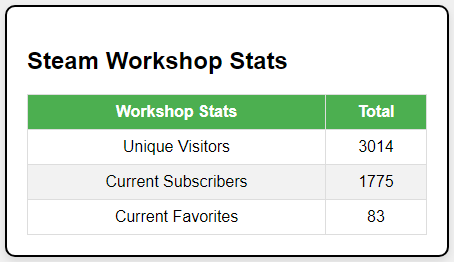
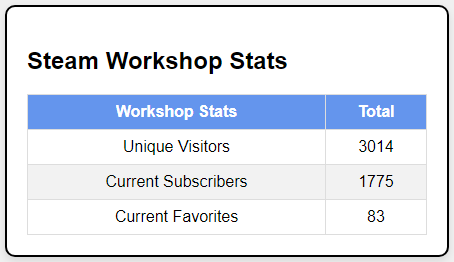
Update Card

Changed region(s): [[0.0617, 0.3359, 0.9559, 0.5191]]

diff --git a/assets/steam_summary.html b/assets/steam_summary.html
@@ -37,7 +37,7 @@
         <div class="content">
             <img id="avatar" class="avatar" src="https://avatars.steamstatic.com/0718d631353dd49100dde0be17dd7e88e984478f_full.jpg" alt="Avatar">
             <h2 id="name">Name: Nicco</h2>
-            <p id="status">Status: Offline</p>
+            <p id="status">Status: Online</p>
             <p id="country">Country: <span id="country-code">IN</span>
                 <img id="flag" class="flag"
                 src="https://flagcdn.com/w320/in.png" alt="Flag">

diff --git a/assets/steam_workshop_stats.html b/assets/steam_workshop_stats.html
@@ -35,7 +35,7 @@
             text-align: center;
         }
         th {
-            background-color: #4CAF50;
+            background-color: #6495ED;
             color: white;
         }
         tr:nth-child(even) {

diff --git a/api/card.py b/api/card.py
@@ -3,26 +3,23 @@ import datetime
 import math
 import os
 import asyncio
-import time
+import tempfile
 import zipfile
 from pyppeteer import launch
 import requests
-from steam_stats import get_player_summaries, get_recently_played_games
-from steam_workshop import fetch_workshop_item_links, fetch_all_workshop_stats
-from dotenv import load_dotenv
 
-load_dotenv()
-
-# Secrets Configuration
-STEAM_API_KEY = os.getenv("STEAM_API_KEY")
-STEAM_ID = os.getenv("STEAM_ID")
-STEAM_CUSTOM_ID = os.getenv("STEAM_CUSTOM_ID")
 REQUEST_TIMEOUT = (10, 15)
 
-CHROMIUM_ZIP_URL = "https://commondatastorage.googleapis.com/chromium-browser-snapshots/Win_x64/1309077/chrome-win.zip"
-CHROMIUM_DIR = os.path.join(os.getcwd(), 'chromium')
-CHROMIUM_EXECUTABLE = os.path.join(CHROMIUM_DIR, 'chrome-win', 'chrome.exe')
+CHROMIUM_ZIP_URL = (
+    "https://commondatastorage.googleapis.com/chromium-browser-snapshots/Win_x64/1309077/"
+    "chrome-win.zip"
+)
+CHROMIUM_DIR = os.path.join(os.getcwd(), "chromium")
+CHROMIUM_EXECUTABLE = os.path.join(CHROMIUM_DIR, "chrome-win", "chrome.exe")
 MARGIN = 5
+
+# Set the PYPPETEER_HOME environment variable to a directory with appropriate permissions
+os.environ["PYPPETEER_HOME"] = os.path.join(os.getcwd(), "pyppeteer_home")
 
 
 def download_and_extract_chromium():
@@ -43,11 +40,15 @@ def download_and_extract_chromium():
         with zipfile.ZipFile(zip_path, 'r') as zip_ref:
             zip_ref.extractall(CHROMIUM_DIR)
         print("Chromium extracted successfully.")
+    # Ensure the Chromium executable has the correct permissions
+    os.chmod(CHROMIUM_EXECUTABLE, 0o755)
 
 
 async def get_element_bounding_box(html_file, selector):
     """Get the bounding box of the specified element using pyppeteer"""
-    browser = await launch(headless=True, executablePath=CHROMIUM_EXECUTABLE)
+    user_data_dir = tempfile.mkdtemp()
+    browser = await launch(headless=True, executablePath=CHROMIUM_EXECUTABLE, args=['--no-sandbox'],
+                           userDataDir=user_data_dir)
     page = await browser.newPage()
     await page.goto(f'file://{os.path.abspath(html_file)}')
     bounding_box = await page.evaluate(f'''() => {{
@@ -55,19 +56,22 @@ async def get_element_bounding_box(html_file, selector):
         var rect = element.getBoundingClientRect();
         return {{x: rect.x, y: rect.y, width: rect.width, height: rect.height}};
     }}''')
+    await page.close()
     await browser.close()
     # Add margin to the bounding box
-    bounding_box['x'] = max(bounding_box['x'] - MARGIN, 0)
-    bounding_box['y'] = max(bounding_box['y'] - MARGIN, 0)
-    bounding_box['width'] += 2 * MARGIN
-    bounding_box['height'] += 2 * MARGIN
+    bounding_box["x"] = max(bounding_box["x"] - MARGIN, 0)
+    bounding_box["y"] = max(bounding_box["y"] - MARGIN, 0)
+    bounding_box["width"] += 2 * MARGIN
+    bounding_box["height"] += 2 * MARGIN
     return bounding_box
 
 
 async def html_to_png(html_file, output_file, selector):
     """Convert HTML file to PNG using pyppeteer with clipping"""
     bounding_box = await get_element_bounding_box(html_file, selector)
-    browser = await launch(headless=True, executablePath=CHROMIUM_EXECUTABLE)
+    user_data_dir = tempfile.mkdtemp()
+    browser = await launch(headless=True, executablePath=CHROMIUM_EXECUTABLE, args=['--no-sandbox'],
+                           userDataDir=user_data_dir)
     page = await browser.newPage()
     await page.goto(f'file://{os.path.abspath(html_file)}')
     await page.screenshot({
@@ -79,6 +83,7 @@ async def html_to_png(html_file, output_file, selector):
             'height': bounding_box['height']
         }
     })
+    await page.close()
     await browser.close()
 
 
@@ -176,11 +181,11 @@ def generate_card_for_player_summary(player_data):
 </body>
 </html>
     """
-    with open("assets/steam_summary.html", "w", encoding="utf-8") as file:
+    with open("../assets/steam_summary.html", "w", encoding="utf-8") as file:
         file.write(html_content)
 
-    convert_html_to_png("assets/steam_summary.html",
-                        "assets/steam_summary.png", ".card")
+    convert_html_to_png("../assets/steam_summary.html",
+                        "../assets/steam_summary.png", ".card")
 
     return (
         "![Steam Summary]"
@@ -239,11 +244,11 @@ def generate_card_for_played_games(games_data):
 </html>
     """
 
-    with open("assets/recently_played_games.html", "w", encoding="utf-8") as file:
+    with open("../assets/recently_played_games.html", "w", encoding="utf-8") as file:
         file.write(html_content)
 
-    convert_html_to_png("assets/recently_played_games.html",
-                        "assets/recently_played_games.png", ".card")
+    convert_html_to_png("../assets/recently_played_games.html",
+                        "../assets/recently_played_games.png", ".card")
 
     return (
         "![Steam Summary]"
@@ -290,7 +295,7 @@ def generate_card_for_steam_workshop(workshop_stats):
             text-align: center;
         }}
         th {{
-            background-color: #4CAF50;
+            background-color: #6495ED;
             color: white;
         }}
         tr:nth-child(even) {{
@@ -327,29 +332,13 @@ def generate_card_for_steam_workshop(workshop_stats):
 </body>
 </html>
     """
-    with open("assets/steam_workshop_stats.html", "w", encoding="utf-8") as file:
+    with open("../assets/steam_workshop_stats.html", "w", encoding="utf-8") as file:
         file.write(html_content)
 
-    convert_html_to_png("assets/steam_workshop_stats.html",
-                        "assets/steam_workshop_stats.png", ".card")
+    convert_html_to_png("../assets/steam_workshop_stats.html",
+                        "../assets/steam_workshop_stats.png", ".card")
 
     return (
         "![Steam Summary]"
-        "(https://github.com/Nicconike/Steam-Stats/blob/master/assets/steam_workshop_stats.png"
-        "?sanitize=true)\n"
+        "(https://github.com/Nicconike/Steam-Stats/blob/master/assets/steam_workshop_stats.png)"
     )
-
-
-if __name__ == "__main__":
-    start_time = time.time()
-    player_summary = get_player_summaries()
-    recently_played_games = get_recently_played_games()
-    links = fetch_workshop_item_links(STEAM_CUSTOM_ID)
-    workshop_data = fetch_all_workshop_stats(links)
-    generate_card_for_player_summary(player_summary)
-    generate_card_for_played_games(recently_played_games)
-    generate_card_for_steam_workshop(workshop_data)
-    end_time = time.time()  # End the timer
-    total_time = end_time-start_time
-    total_time = round(total_time, 3)  # Total time
-    print(f"Total Execution Time: {total_time} seconds")

diff --git a/api/steam_workshop.py b/api/steam_workshop.py
@@ -1,48 +1,40 @@
 """Scrape Steam Workshop Data"""
+import json
+import os
 import requests
 from bs4 import BeautifulSoup, Tag
+from dotenv import load_dotenv
+
+load_dotenv()
+
+# Secrets Configuration
+STEAM_API_KEY = os.getenv("STEAM_API_KEY")
+STEAM_CUSTOM_ID = os.getenv("STEAM_CUSTOM_ID")
 
 # A reasonable timeout for the request (connection and read timeout)
 REQUEST_TIMEOUT = (10, 15)
 
+GET_SERVER_INFO_URL = 'https://api.steampowered.com/ISteamWebAPIUtil/GetServerInfo/v1/'
 
-def fetch_workshop_item_links(steam_id):
-    """Fetch each workshop item's link, navigating through all pages"""
-    base_url = f"https://steamcommunity.com/id/{steam_id}/myworkshopfiles/"
-    item_links = []
-    page_number = 1
 
-    while True:
-        url = f"{base_url}?p={page_number}"
-        try:
-            response = requests.get(url, timeout=REQUEST_TIMEOUT)
-            response.raise_for_status()
-            soup = BeautifulSoup(response.content, "html.parser")
-            workshop_items = soup.find_all("div", class_="workshopItem")
+def get_server_info(api_key):
+    """Fetch server information from the Steam Web API"""
+    try:
+        response = requests.get(GET_SERVER_INFO_URL, params={
+                                'key': api_key}, timeout=REQUEST_TIMEOUT)
+        response.raise_for_status()
+        return response.json()
+    except requests.exceptions.RequestException as e:
+        print(f"Error fetching server info: {e}")
+        return None
 
-            if not workshop_items:
-                print(f"No workshop items found on page {page_number}")
-                break
 
-            item_links.extend(extract_links(workshop_items))
-
-            if not has_next_page(soup):
-                break
-
-            page_number += 1
-
-        except requests.exceptions.RequestException as e:
-            handle_request_exception(e)
-            break
-        except AttributeError as e:
-            print(f"Parsing error: {
-                  e}. The structure of the page might have changed")
-            break
-
-    if not item_links and page_number == 1:
-        raise ValueError("No items were found in your Steam Workshop")
-
-    return item_links
+def is_server_online(api_key):
+    """Check if the server is online based on the GetServerInfo response"""
+    serverinfo = get_server_info(api_key)
+    if serverinfo and 'servertime' in serverinfo:
+        return True
+    return False
 
 
 def extract_links(workshop_items):
@@ -78,6 +70,49 @@ def handle_request_exception(e):
               e.response.status_code} - {e.response.reason}")
     else:
         print(f"An error occurred: {e}")
+
+
+def fetch_workshop_item_links(steam_id, api_key):
+    """Fetch each workshop item's link, navigating through all pages"""
+    if not is_server_online(api_key):
+        raise ConnectionError(
+            "Steam Community is currently offline. Please try again later")
+
+    base_url = f"https://steamcommunity.com/id/{steam_id}/myworkshopfiles/"
+    item_links = []
+    page_number = 1
+
+    while True:
+        url = f"{base_url}?p={page_number}"
+        try:
+            response = requests.get(url, timeout=REQUEST_TIMEOUT)
+            response.raise_for_status()
+            soup = BeautifulSoup(response.content, "html.parser")
+            workshop_items = soup.find_all("div", class_="workshopItem")
+
+            if not workshop_items:
+                print(f"No workshop items found on page {page_number}")
+                break
+
+            item_links.extend(extract_links(workshop_items))
+
+            if not has_next_page(soup):
+                break
+
+            page_number += 1
+
+        except requests.exceptions.RequestException as e:
+            handle_request_exception(e)
+            break
+        except AttributeError as e:
+            print(f"Parsing error: {
+                  e}. The structure of the page might have changed")
+            break
+
+    if not item_links and page_number == 1:
+        raise ValueError("No items were found in your Steam Workshop")
+
+    return item_links
 
 
 def fetch_individual_workshop_stats(item_url):
@@ -164,3 +199,20 @@ def fetch_all_workshop_stats(item_links):
         "total_current_favorites": total_current_favorites,
         "individual_stats": all_stats
     }
+
+
+def save_to_file(data, filename):
+    """Save fetched data to a file in JSON format"""
+    if data is not None:
+        with open(filename, 'w', encoding='utf-8') as file:
+            # Use json.dump to write the JSON data to the file
+            json.dump(data, file, indent=4)
+        print(f"Data saved to {filename}")
+    else:
+        print("No data to save")
+
+
+if __name__ == "__main__":
+    itemlinks = fetch_workshop_item_links(STEAM_CUSTOM_ID, STEAM_API_KEY)
+    workshop_data = fetch_all_workshop_stats(itemlinks)
+    save_to_file(workshop_data, "workshop_data.json")

diff --git a/api/main.py b/api/main.py
@@ -8,17 +8,21 @@ from card import (
     generate_card_for_played_games,
     generate_card_for_steam_workshop
 )
+from dotenv import load_dotenv
+
+load_dotenv()
 
 # Secrets Configuration
-STEAM_ID = os.getenv("STEAM_CUSTOM_ID")
+STEAM_API_KEY = os.getenv("STEAM_API_KEY")
+STEAM_CUSTOM_ID = os.getenv("STEAM_CUSTOM_ID")
 
 # Verify that the environment variables are loaded correctly
-if not STEAM_ID:
+if not STEAM_CUSTOM_ID:
     raise ValueError(
         "Missing STEAM_ID in environment variables")
 
 
-def update_readme(markdown_data, start_marker, end_marker, readme_path="README.md"):
+def update_readme(markdown_data, start_marker, end_marker, readme_path="../README.md"):
     """Updates the README.md file with the provided Markdown content within specified markers."""
     # Read the current README content
     with open(readme_path, "r", encoding="utf-8") as file:
@@ -50,7 +54,7 @@ if __name__ == "__main__":
     start_time = time.time()
     player_summary = get_player_summaries()
     recently_played_games = get_recently_played_games()
-    links = fetch_workshop_item_links(STEAM_ID)
+    links = fetch_workshop_item_links(STEAM_CUSTOM_ID, STEAM_API_KEY)
 
     USER_MARKDOWN_CONTENT = ""
     if player_summary and recently_played_games:

diff --git a/README.md b/README.md
@@ -6,7 +6,10 @@
 [![Visitor Badge](https://badges.pufler.dev/visits/nicconike/steam-stats)](https://badges.pufler.dev)
 
 <!-- Steam-Stats start -->
+![Steam Summary](https://github.com/Nicconike/Steam-Stats/blob/master/assets/steam_summary.png)
+![Steam Summary](https://github.com/Nicconike/Steam-Stats/blob/master/assets/recently_played_games.png)
 <!-- Steam-Stats end -->
 
 <!-- Steam-Workshop start -->
+![Steam Summary](https://github.com/Nicconike/Steam-Stats/blob/master/assets/steam_workshop_stats.png)
 <!-- Steam-Workshop end -->
